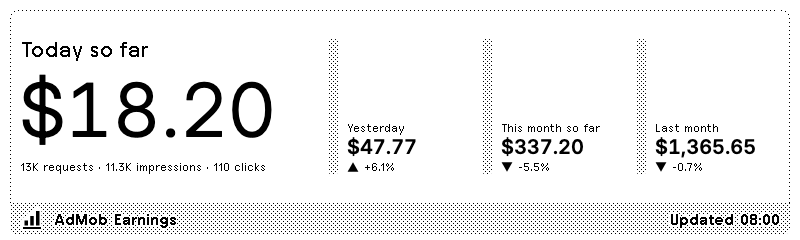
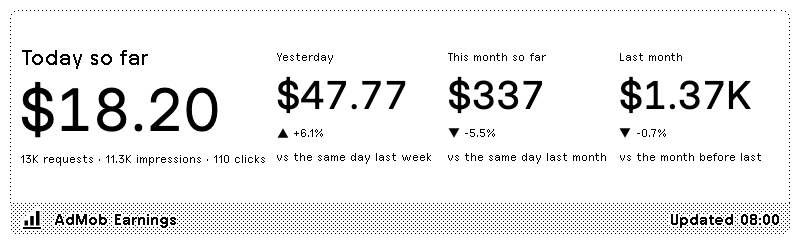
Review every AdMob layout and fill each screen
Half horizontal gives the primary a third of the width and drops the tile
stripes; half vertical uses short amounts in portrait; the quadrant stacks its
tiles. Short amounts keep cents under 100, drop them under 1,000 and abbreviate
above. Compact views reveal the period line, counts and change markers where
they fit, and status messages use large type. All 24 device, orientation and
layout combinations pass the review suites.

diff --git a/apps/admob-earnings/src/transform.js b/apps/admob-earnings/src/transform.js
@@ -70,7 +70,7 @@ function transform(input) {
 
   const style = ['amount', 'both'].includes(options.comparison_style) ? options.comparison_style : 'percent';
   const tile = (key, label, totals, compare) => {
-    const result = { key, label, amount: formatMoney(totals.micros, currency), amount_compact: compactMoney(totals.micros, currency), amount_short: compactMoney(totals.micros, currency, 1000), micros: totals.micros, ...metrics(totals) };
+    const result = { key, label, amount: formatMoney(totals.micros, currency), amount_compact: compactMoney(totals.micros, currency), amount_short: shortMoney(totals.micros, currency), micros: totals.micros, ...metrics(totals) };
     if (!compare) return { ...result, compare_label: '', compare_amount: '', delta_percent: '', delta_amount: '', direction: 'none', change: '', compare_phrase: '', comparison: '', comparison_short: '' };
     if (!covered(compare.from)) return { ...result, compare_label: compare.label, compare_amount: '', delta_percent: '', delta_amount: '', direction: 'none', change: '', compare_phrase: `No data for ${compare.label}`, comparison: `No data for ${compare.label}`, comparison_short: '' };
     const change = delta(totals.micros, compare.micros, currency);
@@ -109,6 +109,7 @@ function metrics(totals) {
     metrics_line: `${exact(totals.requests)} ${plural(totals.requests, 'request')} · ${exact(totals.impressions)} ${plural(totals.impressions, 'impression')} · ${exact(totals.clicks)} ${plural(totals.clicks, 'click')}`,
     // One line per count for tiles that stack them.
     metric_lines: [`${exact(totals.requests)} ${plural(totals.requests, 'request')}`, `${exact(totals.impressions)} ${plural(totals.impressions, 'impression')}`, `${exact(totals.clicks)} ${plural(totals.clicks, 'click')}`],
+    metric_lines_compact: [`${compact(totals.requests)} ${plural(totals.requests, 'request')}`, `${compact(totals.impressions)} ${plural(totals.impressions, 'impression')}`, `${compact(totals.clicks)} ${plural(totals.clicks, 'click')}`],
     metrics_line_compact: `${compact(totals.requests)} ${plural(totals.requests, 'request')} · ${compact(totals.impressions)} ${plural(totals.impressions, 'impression')} · ${compact(totals.clicks)} ${plural(totals.clicks, 'click')}`,
   };
 }
@@ -132,26 +133,28 @@ const PREFIXES = ['', 'portrait:', 'lg:', 'lg:portrait:'];
 const ROOM = {
   primary: {
     full: { width: [770, 455, 1010, 755], cap: [128, 128, 220, 170] },
-    half_horizontal: { width: [290, 435, 390, 735], cap: [128, 128, 170, 170] },
+    half_horizontal: { width: [250, 435, 325, 735], cap: [128, 128, 170, 128] },
     half_vertical: { width: [380, 220, 500, 370], cap: [96, 128, 170, 170] },
     quadrant: { width: [380, 220, 500, 370], cap: [74, 96, 128, 128] },
   },
   secondary: {
     full: { width: [228, 290, 305, 560], cap: [58, 58, 74, 74] },
-    half_horizontal: { width: [126, 122, 174, 222], cap: [38, 38, 58, 58] },
+    half_horizontal: { width: [155, 135, 210, 235], cap: [38, 38, 58, 58] },
     half_vertical: { width: [347, 187, 467, 337], cap: [38, 58, 58, 74] },
-    quadrant: { width: [115, 85, 155, 190], cap: [26, 26, 38, 38] },
+    quadrant: { width: [115, 187, 155, 337], cap: [26, 26, 38, 38] },
   },
 };
 // Width in ems: Inter's tabular digits are 0.645em, separators 0.27em.
 function textEms(text) { return Array.from(text).reduce((total, char) => total + (/\d/.test(char) ? 0.645 : /[.,]/.test(char) ? 0.27 : 0.7), 0); }
 function amountClasses(primaryEms, secondaryEms, secondaryCompactEms, secondaryShortEms) {
   const pick = (width, ems, cap) => (VALUE_SIZES.filter(([, size]) => size <= cap && ems * size * 1.03 <= width).pop() || VALUE_SIZES[0])[0];
-  const classes = (room, ems) => room.width.map((width, index) => `${PREFIXES[index]}value--${pick(width, ems, room.cap[index])}`).join(' ');
+  // ems may differ by orientation: [landscape, portrait].
+  const classes = (room, ems) => room.width.map((width, index) => `${PREFIXES[index]}value--${pick(width, [].concat(ems)[index % 2] ?? ems, room.cap[index])}`).join(' ');
   return {
     primary: Object.fromEntries(Object.entries(ROOM.primary).map(([view, room]) => [view, classes(room, primaryEms)])),
-    // The full view shows exact secondary amounts; mashups abbreviate them, the quadrant most.
-    secondary: Object.fromEntries(Object.entries(ROOM.secondary).map(([view, room]) => [view, classes(room, view === 'full' ? secondaryEms : view === 'quadrant' ? secondaryShortEms : secondaryCompactEms)])),
+    // Half horizontal and the quadrant always use short amounts; half vertical only in portrait.
+    secondary: Object.fromEntries(Object.entries(ROOM.secondary).map(([view, room]) => [view, classes(room,
+      view === 'full' ? secondaryEms : view === 'half_vertical' ? [secondaryCompactEms, secondaryShortEms] : secondaryShortEms)])),
   };
 }
 
@@ -212,6 +215,14 @@ function compactNumber(value) {
   const scaled = value / divisor;
   const text = scaled >= 100 ? scaled.toFixed(0) : scaled >= 10 ? scaled.toFixed(1) : scaled.toFixed(2);
   return `${text.includes('.') ? text.replace(/0+$/, '').replace(/\.$/, '') : text}${suffix}`;
+}
+
+// The narrowest tiles: cents below 100, whole units below 1,000, then K and M.
+function shortMoney(micros, currency) {
+  const value = Math.abs(micros) / 1e6;
+  if (value < 100 || decimalsFor(currency) === 0) return compactMoney(micros, currency, 1000);
+  if (value < 1000) return formatMoney(Math.round(micros / 1e6) * 1e6, currency).replace(/\.0+$/, '');
+  return compactMoney(micros, currency, 1000);
 }
 
 function compactMoney(micros, currency, from = 10000) {

diff --git a/apps/admob-earnings/test/transform.test.js b/apps/admob-earnings/test/transform.test.js
@@ -169,6 +169,11 @@ test('formats currencies with symbols, grouping and whole units', () => {
   assert.equal(amount('USD', 100000).amount_compact, '$100K');
   assert.equal(amount('JPY', 38400000).amount_compact, '¥38.4M');
   assert.equal(amount('INR', 2e9).amount_compact, '₹2B');
+  // The narrowest tiles keep cents under 100, drop them under 1,000, then abbreviate.
+  assert.equal(amount('USD', 47.77).amount_short, '$47.77');
+  assert.equal(amount('USD', 337.2).amount_short, '$337');
+  assert.equal(amount('USD', 1365.65).amount_short, '$1.37K');
+  assert.equal(amount('JPY', 988579).amount_short, '¥989K');
 });
 
 test('shows plain amounts when the report header has no currency', () => {

diff --git a/apps/admob-earnings/README.md b/apps/admob-earnings/README.md
@@ -34,7 +34,7 @@ pnpm build:admob          # dist/admob-earnings.zip for TRMNL's importer
 - **Request** (`src/settings.yml`): one `POST` to `accounts/{publisher_id}/networkReport:generate` with `Authorization: Bearer {{ oauth_access_token }}`. The Liquid body asks for daily `ESTIMATED_EARNINGS` over the last 93 days, ending one day after the UTC date, which always covers this month and the two full months before it in any time zone.
 - **Account picker**: `publisher_id` is an `xhrSelect` field whose `remote:` block calls `GET /v1/accounts` with the installer's token on TRMNL's servers, so the installer chooses from their own accounts.
 - **Transform** (`src/transform.js`): parses the header, row and footer elements; finds "today" in the account's reporting time zone (falling back to the TRMNL user's offset); sums the periods; formats money with currency symbols and whole-unit currencies such as JPY; writes the comparison text for the chosen style; and picks one value size per view from the widest amount, so tiles match and never overflow. Errors become a `status` of `setup`, `auth`, `access`, `no_data` or `error`, and every view explains what to do.
-- **Views** (`src/*.liquid`): framework classes only. One large primary figure (today so far) and three equal secondary tiles. Full puts the primary across the top with the three tiles in a row beneath it (stacked in portrait); half horizontal places the tiles in a row beside or below the primary; half vertical and the quadrant stack or row them beneath, the quadrant showing amounts only. Amounts in each group share one size, chosen by the transform from measured tile widths. Dark appearance follows Daily Bread's convention.
+- **Views** (`src/*.liquid`): framework classes only, and every layout aims to fill its screen. One large primary figure (today so far) and three equal secondary tiles. Full puts the primary across the top with the tiles in a row beneath (stacked, with counts in a right-hand column, in portrait). Half horizontal gives the primary a third of the width; half vertical and the quadrant stack the tiles under it. Compact views abbreviate amounts ($337, $1.37K) and reveal the "vs …" line, counts and change markers only where they fit. Status messages use large type. Amounts in each group share one size, chosen by the transform from measured tile widths. Dark appearance follows Daily Bread's convention.
 
 ## TRMNL and GitHub Sync
 
